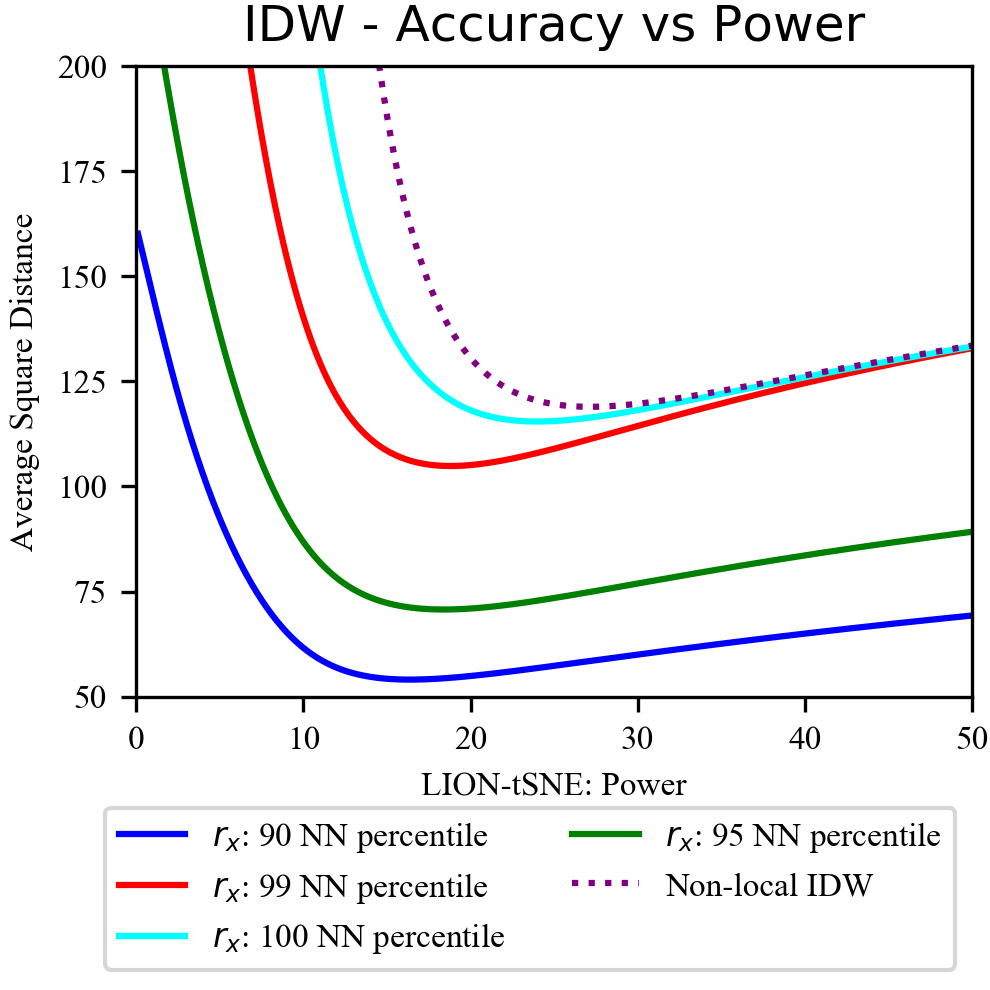
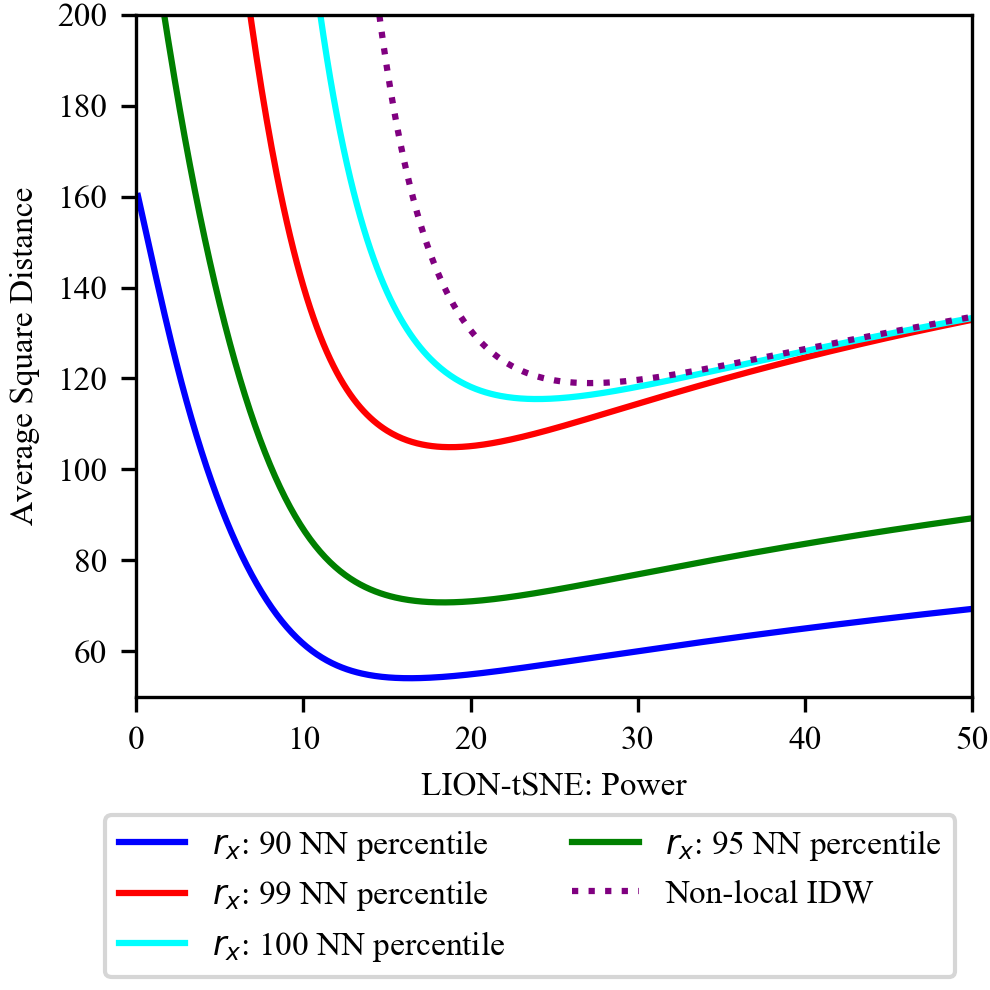
Arranging files better, fixing the plots

diff --git a/mnist-experiments/figure-generators/generate_fig_outlier_placement_example.py b/mnist-experiments/figure-generators/generate_fig_outlier_placement_example.py
@@ -16,7 +16,7 @@ lion_toy_interp = dTSNE_mnist.generate_lion_tsne_embedder(verbose=0, random_stat
 # Step 2. Generate outliers and embed them
 # Usually we separate data generation and figure generation, but here calculations are just too fast and
 # data should never be used anywhere else.
-n_outl = 255
+n_outl = 392
 x_outl = np.zeros([n_outl, X_mnist.shape[1]])
 np.random.seed(0)
 for i in range(n_outl):
@@ -29,37 +29,37 @@ y_outl = lion_toy_interp(x_outl, verbose=0) #Verbose 2 produce quite a bit of ou
 
 
 # Step 3. Generating the plot
+f,ax = plt.subplots(dpi=300)
+
 font_properties = FontProperties()
 font_properties.set_family('serif')
 font_properties.set_name('Times New Roman')
-font_properties.set_size(9)
+font_properties.set_size(8)
 
-f,ax = plt.subplots(dpi=300)
-f.set_size_inches(6,6) #Let's set the plot sizes that just fit paper margins
+f.set_size_inches(3.3,3.3) #Let's set the plot sizes that just fit paper margins
 legend_list = list()
 ax.scatter(Y_mnist[:, 0], Y_mnist[:, 1], marker = '.', s=5, c='gray')
 #l = plt.legend([dc,dcr],["Data Radius","Data Radius + $r_y$"], loc=2, borderaxespad = 0)
 #ax.plot(y_outl[:, 0], y_outl[:, 1], marker = '.', ms=5,linestyle=":", c='red')
-n_o = 111
-n_o_2 = 179
+n_o = 212
+n_o_2 = 298
 g1 = ax.scatter(y_outl[:n_o, 0], y_outl[:n_o, 1], marker = 'o', s=5,c='red', lw=0)
 g2 = ax.scatter(y_outl[n_o:n_o_2, 0], y_outl[n_o:n_o_2, 1], marker = 'o', s=5,c='blue',lw=0)
 g3 = ax.scatter(y_outl[n_o_2:, 0], y_outl[n_o_2:, 1], marker = 'o', s=5,c='green',lw=0)
 ax.plot([min(Y_mnist[:, 0]), min(Y_mnist[:, 0]), max(Y_mnist[:, 0]), max(Y_mnist[:, 0]), min(Y_mnist[:, 0])],
         [min(Y_mnist[:, 1]), max(Y_mnist[:, 1]), max(Y_mnist[:, 1]), min(Y_mnist[:, 1]), min(Y_mnist[:, 1])],
         linestyle='--', c='black',lw=1)
-ax.plot([min(Y_mnist[:, 0])-15, min(Y_mnist[:, 0])-15, max(Y_mnist[:, 0])+15, max(Y_mnist[:, 0])+15, min(Y_mnist[:, 0])-15],
-        [min(Y_mnist[:, 1])-15, max(Y_mnist[:, 1])+15, max(Y_mnist[:, 1])+15, min(Y_mnist[:, 1])-15, min(Y_mnist[:, 1])-15],
+ax.plot([min(Y_mnist[:, 0])-10, min(Y_mnist[:, 0])-10, max(Y_mnist[:, 0])+10, max(Y_mnist[:, 0])+10, min(Y_mnist[:, 0])-10],
+        [min(Y_mnist[:, 1])-10, max(Y_mnist[:, 1])+10, max(Y_mnist[:, 1])+10, min(Y_mnist[:, 1])-10, min(Y_mnist[:, 1])-10],
         linestyle='--', c='black',lw=1)
-ax.set_ylim([-160,160])
-ax.set_xlim([-160,160])
-
 plt.tick_params(axis='both', which='both',bottom=False,top=False,labelbottom=False,
                                           left=False,right=False,labelleft=False)
+ax.set_ylim([-150,150])
+ax.set_xlim([-160,160])
 # f.tight_layout()
-l = plt.legend([g1,g2,g3],["First outliers will be mapped to those positions",
-                       "... then outliers will be mapped to outer layer positions",
-                       "... and then to even more distant layer(s)"],loc=6, bbox_to_anchor=[0.0,-0.15],
-                       prop=font_properties)
-f.savefig("../figures/outlier_placement_example.png", bbox_extra_artists=[l],bbox_inches='tight')
+#l = plt.legend([g1,g2,g3],["First outliers will be mapped to \nthose positions",
+#                       "... then outliers will be mapped\nto outer layer positions",
+#                       "... and then to more distant\nlayer(s)"],loc=6, bbox_to_anchor=[-0.025,-0.22],frameon=False)
+plt.tight_layout(rect=[-0.035, -0.035, 1.035, 1.035])
+f.savefig("../figures/outlier_placement_example.png")
 # plt.show(f)

diff --git a/mnist-experiments/figure-generators/generate_fig_LION_power_training_set.py b/mnist-experiments/figure-generators/generate_fig_LION_power_training_set.py
@@ -7,9 +7,6 @@ import logging
 
 logging.basicConfig(level=logging.INFO)
 
-# CAREFUL: It is not just a plot, it also searches optimal power parameter.
-# TODO Separate it
-
 lion_optimal_power = dict()
 
 font_properties = FontProperties()
@@ -45,7 +42,7 @@ h, = plt.plot(x_global, y_global, c='purple', linestyle=":")
 legend_lines.append(h)
 legend_list.append("Non-local IDW")
 
-plt.title("IDW - Accuracy vs Power") # We'd better use figure caption
+# plt.title("IDW - Accuracy vs Power") # We'd better use figure caption
 # ax.legend([h1,h2,h3,h4,h5,h6], ["Closest Training Set Image"]+idw_method_list)
 # h = plt.axhline(y=baseline_accuracy, c = 'black', linestyle='--')
 

diff --git a/mnist-experiments/experiments/exp_cluster_attr_test_RBF_IDW_LION.py b/mnist-experiments/experiments/exp_cluster_attr_test_RBF_IDW_LION.py
@@ -211,7 +211,6 @@ def main(*, regenerate=False, parameters=settings.parameters):
 if __name__ == "__main__":
     logging.basicConfig(level=logging.INFO)
     main(regenerate=False)
-
 # # Doing it from scratch takes REALLY long time. If possible, save results & pre-load
 #
 # # These are consequences of parallelization
